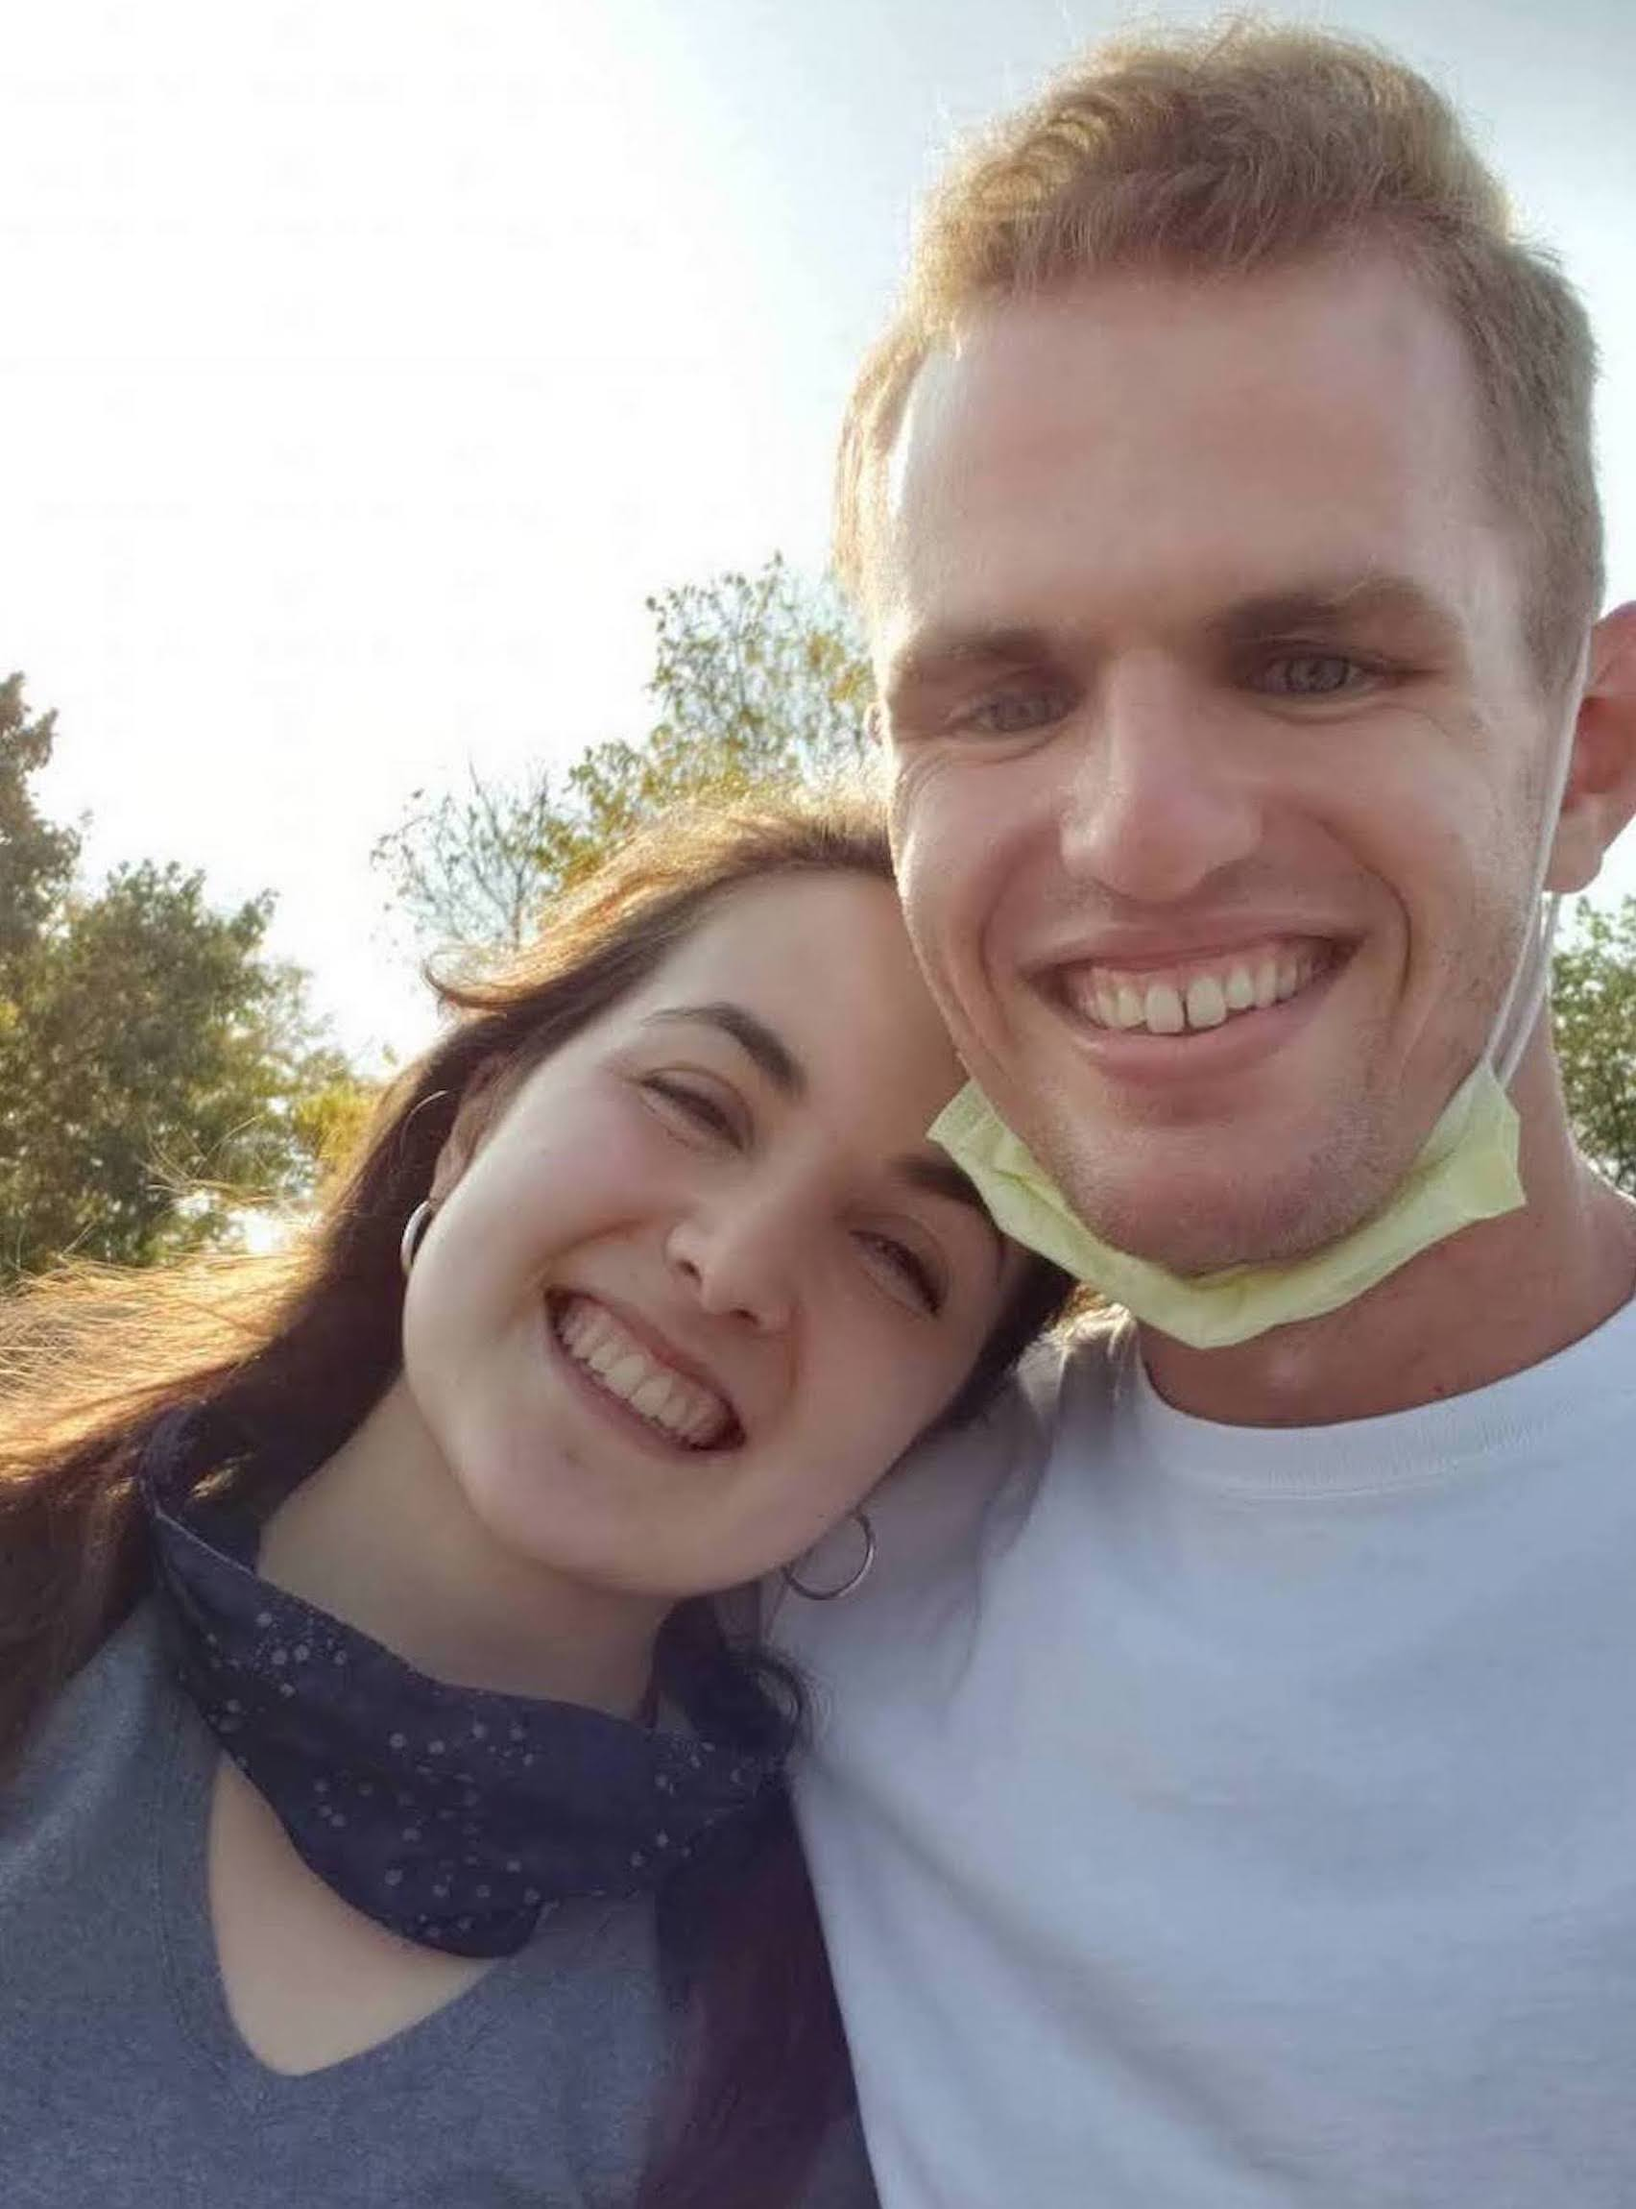
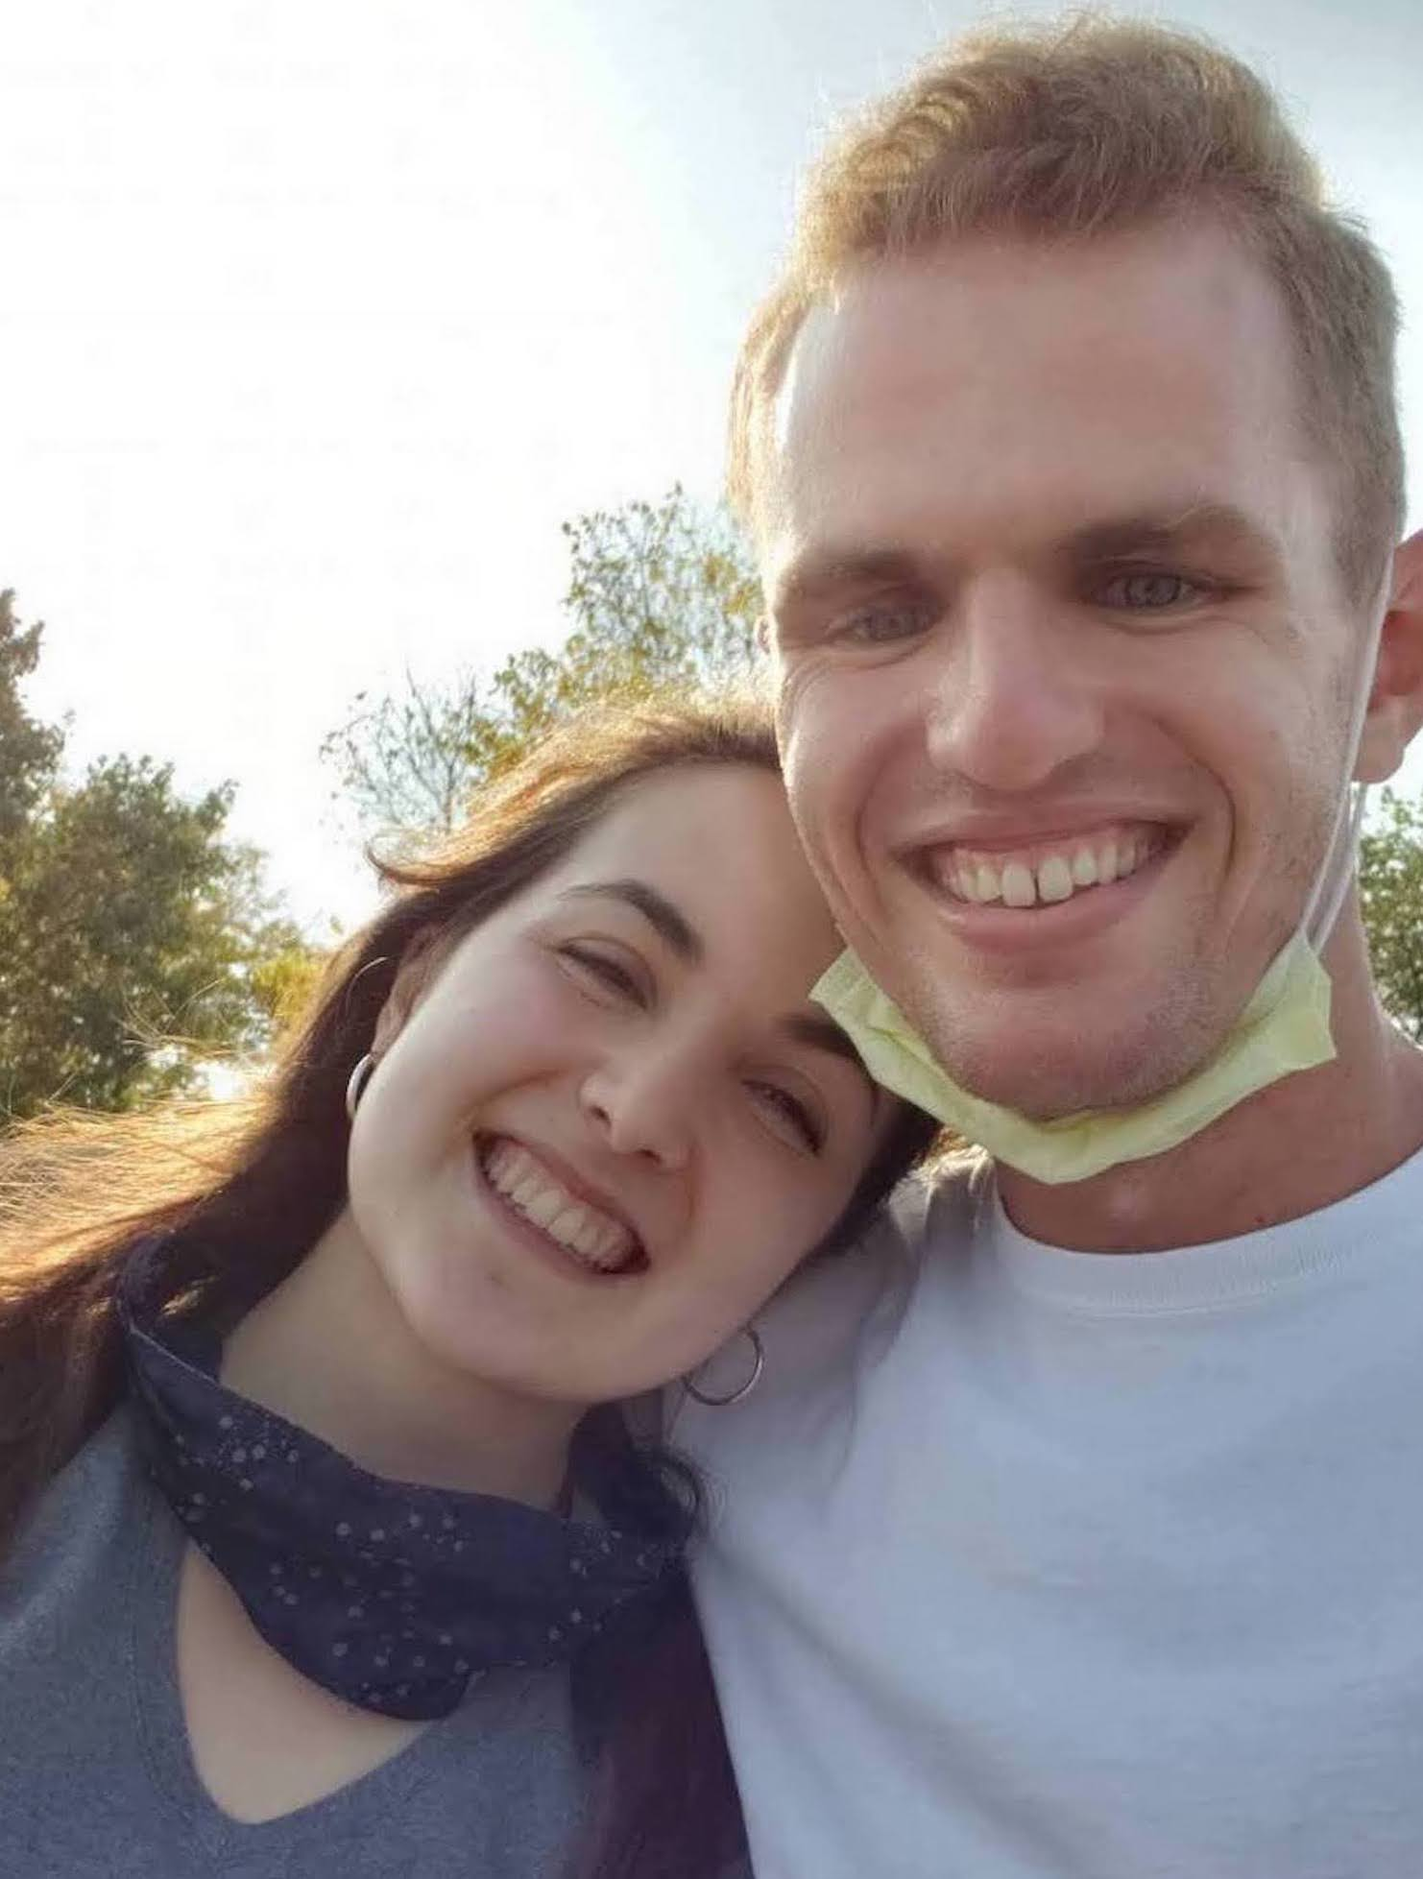
Resize and Replace Images
Resized and replaced the two zoomy images

diff --git a/index.html b/index.html
@@ -202,7 +202,7 @@
             </div>
         </div>
         <div class="row">
-            <div class="col-md-3 hidden-sm hidden-xs"><img src="img/DSD_0214.JPG" class="wp1"></div>
+            <div class="col-md-3 hidden-sm hidden-xs"><img src="img/IMG_2317.jpg" class="wp1"></div>
             <div class="col-md-6">
                 <p>
    
@@ -214,11 +214,11 @@
                     We're excited to spend forever together! 
                   </p>
             </div>
-            <div class="col-md-3 hidden-sm hidden-xs"><img src="img/IMG_2317.jpg" class="wp2"></div>
+            <div class="col-md-3 hidden-sm hidden-xs"><img src= "img/Standing.jpeg"class="wp2"></div>
         </div>
         <div class="row">
             <div class="col-sm-4 col-sm-push-2 col-xs-6 hidden-md hidden-lg"><img src="img/IMG_2317.jpg" class="wp8"></div>
-            <div class="col-sm-4 col-sm-push-2 col-xs-6 hidden-md hidden-lg"><img src="img/DSD_0214.jpg" class="wp9"></div>
+            <div class="col-sm-4 col-sm-push-2 col-xs-6 hidden-md hidden-lg"><img src="img/Standing.jpeg" class="wp9"></div>
         </div>
         <div class="row section-padding">
             <div class="col-md-4 col-md-offset-4 text-center">
